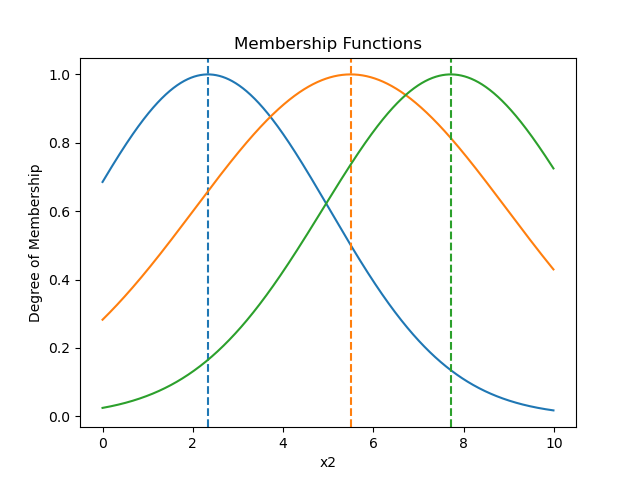
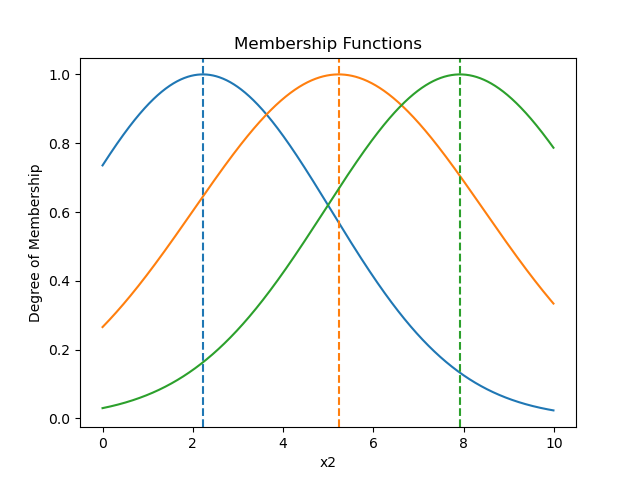
rule extractor works with new folder structure

diff --git a/model_pkg/Model.py b/model_pkg/Model.py
@@ -92,8 +92,12 @@ class Model():
         
         self.arc.FuzzificationLayer.load_weights(self.data.df_name)
         self.arc.RuleConsequentLayer.load_weights(self.data.df_name)
+        self.data.load_data_for_training() # doubled ! hc
+        MFs.visuMFs(self.arc.FuzzificationLayer, df_name= self.data.df_name, dir="before_training", max_vals=self.data.feature_ranges )
 
         self.train()
+        MFs.visuMFs(self.arc.FuzzificationLayer, df_name=self.data.df_name, dir="after_training", max_vals=self.data.feature_ranges )
+
 
     def train(self):
         """Calling trainer
@@ -107,14 +111,13 @@ class Model():
         # passing parameter names onto trainer
         self.trainer.arc = self.arc
         self.trainer.feature_ranges = self.data.feature_ranges 
+        self.trainer.df_name = self.data.df_name
        # print("here", self.data.feature_ranges)
         tf.keras.backend.clear_session()
-        MFs.visuMFs(self.arc.FuzzificationLayer, df_name= self.data.df_name, dir="before_training", max_vals=self.data.feature_ranges )
         # trainig model
         self.trainer(self.train_ds,  self.test_ds, self.validation_ds)
         # saving figs after training
         self.trainer.visualize_training( df_name=self.data.df_name, type_model=self.arc.Name)
-        MFs.visuMFs(self.arc.FuzzificationLayer, df_name=self.data.df_name, dir="after_training", max_vals=self.data.feature_ranges )
 
     
 

diff --git a/neurofuzzy_pkg/utils/MyArcTrainer.py b/neurofuzzy_pkg/utils/MyArcTrainer.py
@@ -10,6 +10,7 @@ from neurofuzzy_pkg import utils
 from neurofuzzy_pkg.utils.MFs import MF_gaussian,MF_gaussian_prime_a, MF_gaussian_prime_b
 from neurofuzzy_pkg.utils.MFs import MF_tri, MF_tri_prime_a, MF_tri_prime_b
 from neurofuzzy_pkg.utils.math_funcs import coefficient
+import neurofuzzy_pkg.utils.MFs as MFs
 
 
 from tqdm import tqdm 
@@ -31,6 +32,8 @@ class MyArcTrainer(Trainer):
         self.n_epochs = n_epochs
         self.learning_rate = learning_rate
         self.feature_ranges = None
+      #  self.df_name = None
+       # self.feature_ranges = None 
 
 
     def __call__(self, train_ds, test_ds, validation_ds):
@@ -40,9 +43,10 @@ class MyArcTrainer(Trainer):
             train_ds (PrefetchDataset): dataset for training
             test_ds (PrefetchDataset): dataset for testing
         """
-
         # train
         self.training_loop(train_ds, test_ds, validation_ds)
+        
+
         
 
 

diff --git a/main.py b/main.py
@@ -42,8 +42,8 @@ def main():
     df_name = "dummy"
 
     MyModel = Model(DataPipeline(df_name, batch_size=batch_size), 
-                    MyArc(), 
-                    MyArcTrainer(n_epochs=n_epochs, learning_rate=learning_rate))
+                     MyArc(), 
+                     MyArcTrainer(n_epochs=n_epochs, learning_rate=learning_rate))
     
    # MyModel.build_MyArc() # works 
    # MyModel.build_MyArc_MF()
@@ -53,12 +53,14 @@ def main():
 
 
     ## Model with MLP arc
-    #MLPModel = Model(DataPipeline(),  MLP((2,6),2),  Trainer())
-    #MLPModel.train()
+    MLPModel = Model(DataPipeline(df_name),  
+                     MLP((2,6),2),  
+                     Trainer())
+    MLPModel.train()
     # print(MLPModel.summary()) 
 
 
-   # rules = ruleExtractor(MyModel, MLPModel, df_name)
+    rules = ruleExtractor(MyModel, MLPModel, df_name)
     # rules.print_results()
     
     return 0

diff --git a/model_pkg/Trainer.py b/model_pkg/Trainer.py
@@ -66,7 +66,7 @@ class Trainer():
             class neurofuzzyTrainer() 
         """
         self.training_loop(train_ds,  test_ds, validation_ds)
-        self.visualize_training(self.arc.Name)
+        self.visualize_training(self.df_name, self.arc.Name)
 
     def pick_batch(self, ds):
         """Return one entry from batch 
@@ -264,7 +264,7 @@ class Trainer():
         return error_term
 
 
-    def visualize_training(self, df_name, type_model="so... hows it going?"):
+    def visualize_training(self, df_name, type_model):
         """ Visualize accuracy and loss for training and test data.
         Args:
             type_model (str): type of model that has been trained

diff --git a/neurofuzzy_pkg/utils/ruleExtractor.py b/neurofuzzy_pkg/utils/ruleExtractor.py
@@ -186,7 +186,7 @@ class ruleExtractor():
 
     def save_results(self):
         # save results to csv files
-        save_path = os.path.dirname(__file__) +  '/../../results'
+        save_path = os.path.dirname(__file__) +  f'/../../results/{self.df_name}'
 
         ## good yield 
         file_name = f"{self.df_name}_rules.csv"
